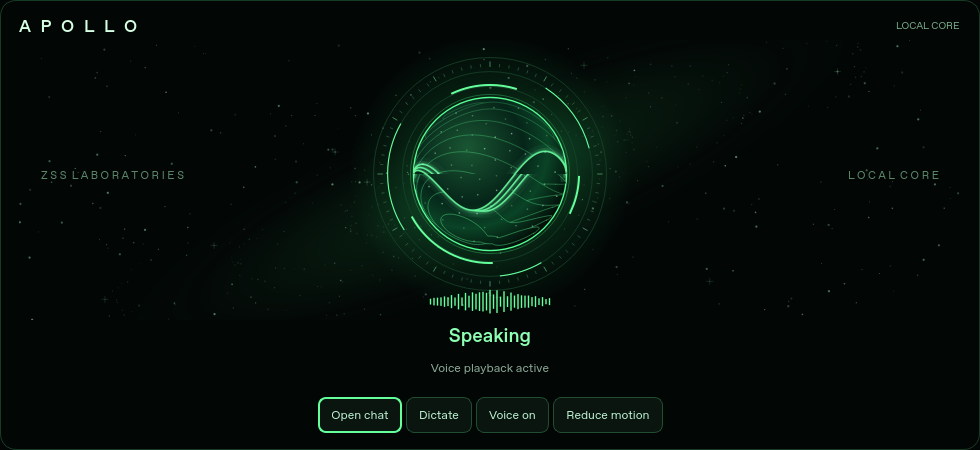
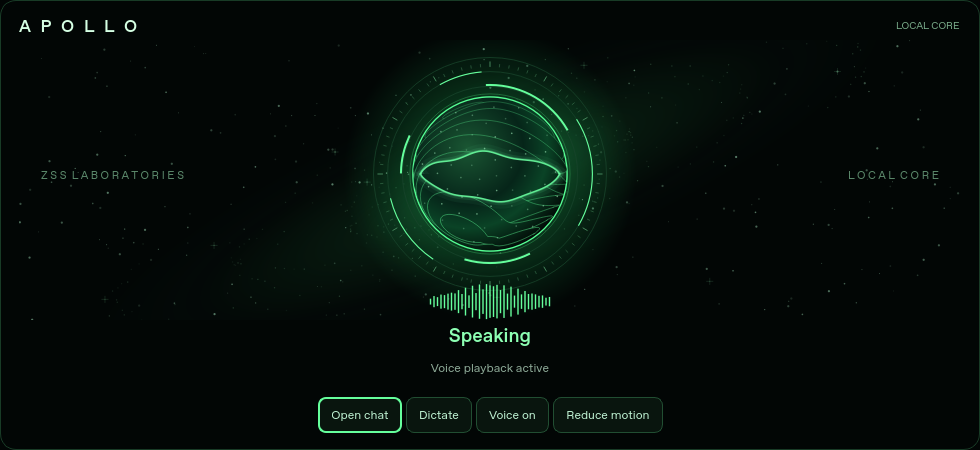
Add calm breathing, slower rings and speech-driven lip waves

diff --git a/apollo_ui/apollo_home_core.py b/apollo_ui/apollo_home_core.py
@@ -7,10 +7,12 @@ from PySide6.QtCore import QPointF, QRectF, QSize, Qt, QTimer, Signal
 from PySide6.QtGui import QColor, QFont, QPainter, QPainterPath, QPen, QPixmap, QRadialGradient
 from PySide6.QtWidgets import QFrame, QHBoxLayout, QLabel, QPushButton, QVBoxLayout, QWidget
 
-from apollo_core_activity import CoreActivity
+from apollo_core_activity import CoreActivity, speech_motion_level
 
 
 GREEN = "#65ff9c"
+RING_DEGREES_PER_SECOND = {"idle": 5, "listening": 7, "thinking": 12,
+                           "researching": 10, "working": 10, "voice": 8, "speaking": 6}
 
 
 class ApolloCoreCanvas(QWidget):
@@ -21,6 +23,8 @@ class ApolloCoreCanvas(QWidget):
         self.activity = CoreActivity()
         self.reduced_motion = False
         self._phase = 0.0
+        self._elapsed = 0.0
+        self._ring_angle = 0.0
         self._last_tick = time.monotonic()
         self._level = 0.0
         self._background = None
@@ -69,10 +73,14 @@ class ApolloCoreCanvas(QWidget):
         now = time.monotonic()
         speed = {"idle": .22, "thinking": 1.1, "voice": .7, "researching": .85,
                  "working": .9, "listening": .45, "speaking": .6}.get(self.activity.state, .25)
-        self._phase += min(.12, now - self._last_tick) * speed
+        dt = max(0.0, min(.12, now - self._last_tick))
+        self._phase += dt * speed
+        self._elapsed += dt
+        self._ring_angle = (self._ring_angle + dt * RING_DEGREES_PER_SECOND.get(self.activity.state, 5)) % 360
         self._last_tick = now
-        target = max(0.0, min(1.0, float(self.activity.level)))
-        self._level += (target - self._level) * .45
+        target = speech_motion_level(self.activity.level, self._elapsed, self.activity.level_available) if self.activity.state == "speaking" else 0.0
+        response = .055 if target > self._level else .09
+        self._level += (target - self._level) * (1 - math.exp(-dt / response))
         self.update()
 
     def _galaxy(self):
@@ -138,17 +146,20 @@ class ApolloCoreCanvas(QWidget):
         t = 0.0 if self.reduced_motion else self._phase
         state = self.activity.state
         speaking = state == "speaking"
-        pulse = .5 + .5 * math.sin(t * (12 if speaking else 3))
-        energy = max(self._level, .12 + .16 * pulse) if speaking else .12 * pulse
+        elapsed = 0.0 if self.reduced_motion else self._elapsed
+        breath = .5 + .5 * math.sin(elapsed * math.tau / 5.6)
+        voice_level = self._level if speaking else 0.0
+        energy = .06 + .10 * breath + .65 * voice_level
         r = min(h * .265, w * .19, 92)
         p.save(); p.translate(w / 2, h / 2 - 6)
 
-        halo = QRadialGradient(QPointF(0, 0), r * 1.9)
-        halo.setColorAt(0, QColor(39, 255, 120, 28))
-        halo.setColorAt(.5, QColor(37, 255, 123, 16 + int(energy * 35)))
+        halo_r = r * (1.82 + .18 * breath)
+        halo = QRadialGradient(QPointF(0, 0), halo_r)
+        halo.setColorAt(0, QColor(39, 255, 120, 22 + int(20 * breath)))
+        halo.setColorAt(.5, QColor(37, 255, 123, 12 + int(16 * breath + voice_level * 25)))
         halo.setColorAt(1, QColor(0, 0, 0, 0))
         p.setPen(Qt.NoPen); p.setBrush(halo)
-        p.drawEllipse(QPointF(0, 0), r * 1.9, r * 1.9)
+        p.drawEllipse(QPointF(0, 0), halo_r, halo_r)
 
         for radius in (1.18, 1.38, 1.57):
             self._circle(p, r * radius, "#17432a", .8)
@@ -161,7 +172,7 @@ class ApolloCoreCanvas(QWidget):
         for ring, direction in ((1.2, 1), (1.38, -1)):
             p.setPen(QPen(QColor(GREEN), 2 if ring == 1.2 else 1.1))
             for offset, length in ((0, 62), (125, 24), (224, 42)):
-                angle = (math.degrees(t) * direction * 25 + offset) % 360
+                angle = ((0.0 if self.reduced_motion else self._ring_angle) * direction + offset) % 360
                 p.drawArc(QRectF(-r * ring, -r * ring, r * ring * 2, r * ring * 2), int(angle * 16), length * 16)
 
         if state == "listening":
@@ -171,7 +182,7 @@ class ApolloCoreCanvas(QWidget):
                 radius = r * (1.05 + progress * .7)
                 p.drawEllipse(QPointF(0, 0), radius, radius)
 
-        sphere_r = r * (1 + energy * .07)
+        sphere_r = r * (.975 + .05 * breath + .025 * voice_level)
         sphere = QRadialGradient(QPointF(-r * .3, -r * .35), r * 1.5)
         sphere.setColorAt(0, QColor("#1a5633"))
         sphere.setColorAt(.5, QColor("#062519"))
@@ -198,13 +209,19 @@ class ApolloCoreCanvas(QWidget):
                 else: path.lineTo(x, y)
             p.setPen(QPen(QColor(95, 255, 151, 40 + band * 8 + int(energy * 45)), .8))
             p.drawPath(path)
-        # The bright plasma ribbon breathes with speech's PCM envelope.
-        for ribbon in range(3):
+        # Opposing energy waves open like abstract lips. Measured silence closes
+        # them; this is an amplitude response, not a phoneme/viseme prediction.
+        for side in (-1, 1):
             path = QPainterPath()
             for j in range(110):
-                x = (j / 109 * 2 - 1) * sphere_r
-                boundary = math.sqrt(max(0, sphere_r * sphere_r - x * x))
-                y = math.sin(x / sphere_r * 2.7 + t * 2 + ribbon * .23) * boundary * (.36 + energy * .28)
+                u = j / 109 * 2 - 1
+                x = u * sphere_r * .9
+                profile = max(0, 1 - u * u) ** .7
+                opening = sphere_r * (.014 + .34 * voice_level)
+                shape = .86 + .12 * math.cos(u * math.tau) if side < 0 else 1.1
+                ripple = math.sin(u * 8 + elapsed * 15) * sphere_r * .022 * voice_level * profile
+                resting_wave = math.sin(u * 3 + t * .5) * sphere_r * .018 * profile
+                y = side * opening * profile * shape + ripple + resting_wave
                 if j == 0: path.moveTo(x, y)
                 else: path.lineTo(x, y)
             for width, alpha in ((14, 12), (7, 25), (3, 65), (1.5, 225)):
@@ -223,7 +240,7 @@ class ApolloCoreCanvas(QWidget):
             x = (i - 17) * 3.5
             height = 1.2
             if speaking and not self.reduced_motion:
-                height += (3 + energy * 17) * (.3 + .7 * abs(math.sin(i * 1.7 + t * 18))) * (1 - abs(i - 17) / 20)
+                height += voice_level * 22 * (.3 + .7 * abs(math.sin(i * 1.7 + elapsed * 18))) * (1 - abs(i - 17) / 20)
             p.drawLine(QPointF(x, r * 1.72 - height), QPointF(x, r * 1.72 + height))
         p.restore()
 

diff --git a/apollo_ui/tests/test_home_core.py b/apollo_ui/tests/test_home_core.py
@@ -12,7 +12,7 @@ import unittest
 from unittest.mock import Mock, patch
 import wave
 
-from apollo_core_activity import CoreActivity, PlaybackEnvelope, resolve_activity
+from apollo_core_activity import CoreActivity, PlaybackEnvelope, resolve_activity, speech_motion_level
 from apollo_runtime import ApolloRuntime
 
 ROOT = Path(__file__).resolve().parents[1]
@@ -45,13 +45,26 @@ class ActivityTests(unittest.TestCase):
             self.assertGreater(levels[2], .5)
             proc = Mock(); proc.poll.return_value = None
             with patch("apollo_core_activity.time.monotonic", return_value=10): meter.start(proc, levels)
+            with patch("apollo_core_activity.time.monotonic", return_value=10.01):
+                silent = meter.snapshot()
+                self.assertTrue(silent["level_available"])
+                self.assertEqual(silent["level"], 0)
             with patch("apollo_core_activity.time.monotonic", return_value=10.12):
                 self.assertGreater(meter.snapshot()["level"], .5)
             proc.poll.return_value = 0
-            self.assertEqual(meter.snapshot(), {"playing": False, "level": 0.0})
+            self.assertEqual(meter.snapshot(), {"playing": False, "level": 0.0, "level_available": False})
             meter.stop()
             self.assertFalse(meter.snapshot()["playing"])
             self.assertEqual(meter.read(Path(folder) / "missing.wav"), ())
+
+    def test_measured_silence_never_becomes_an_invented_syllable(self):
+        for elapsed in (.1, .4, 1.5, 5.6):
+            self.assertEqual(speech_motion_level(0, elapsed, available=True), 0)
+            self.assertEqual(speech_motion_level(.7, elapsed, available=True), .7)
+        self.assertEqual(speech_motion_level(2, .2, available=True), 1)
+        self.assertGreater(speech_motion_level(0, .2, available=False), .5)
+        activity = resolve_activity(speech={"playing": True, "level": 0, "level_available": True})
+        self.assertTrue(activity.level_available)
 
     def test_only_in_flight_current_process_actions_animate_background_work(self):
         with tempfile.TemporaryDirectory() as folder:
@@ -149,8 +162,9 @@ class HomeCoreWidgetTests(unittest.TestCase):
         speech._speech_status.return_value = {"worker_alive": True, "state": "generating"}
         refresh(); self.assertEqual(self.panel.canvas.activity.state, "voice")
         speech._speech_status.return_value = {"worker_alive": False, "state": "completed"}
-        trainer.playback_activity.return_value = {"playing": True, "level": .8}
+        trainer.playback_activity.return_value = {"playing": True, "level": .8, "level_available": True}
         refresh(); self.assertEqual(self.panel.canvas.activity.state, "speaking")
+        self.assertTrue(self.panel.canvas.activity.level_available)
         trainer.playback_activity.return_value = {"playing": False, "level": 0}
         refresh(); self.assertEqual(self.panel.canvas.activity.state, "idle")
         host._core_error = ("Voice failed", time.monotonic() + 10)
@@ -158,6 +172,25 @@ class HomeCoreWidgetTests(unittest.TestCase):
         host._core_error = ("Voice failed", 0)
         refresh(); self.assertEqual(self.panel.canvas.activity.state, "idle")
         host.module_manager.execute.assert_not_called()
+
+    def test_slow_rings_and_speech_waves_close_in_silence(self):
+        canvas = self.panel.canvas
+        canvas.timer.stop()
+        canvas.set_activity(CoreActivity("speaking", "Speaking", "", .9, True))
+        canvas._last_tick = 100
+        angle = canvas._ring_angle
+        with patch("apollo_home_core.time.monotonic", return_value=100.04): canvas._tick()
+        self.assertAlmostEqual(canvas._ring_angle - angle, .24, places=5)  # 6 degrees/second
+        for i in range(2, 12):
+            with patch("apollo_home_core.time.monotonic", return_value=100 + i * .04): canvas._tick()
+        self.assertGreater(canvas._level, .89)
+        elapsed = canvas._elapsed
+        canvas.set_activity(CoreActivity("speaking", "Speaking", "", 0, True))
+        for i in range(12, 30):
+            with patch("apollo_home_core.time.monotonic", return_value=100 + i * .04): canvas._tick()
+        self.assertLess(canvas._level, .001)
+        self.assertGreater(canvas._elapsed, elapsed)
+        self.assertFalse(canvas.grab().isNull())
 
 
 if __name__ == "__main__": unittest.main()

diff --git a/apollo_ui/apollo_core_activity.py b/apollo_ui/apollo_core_activity.py
@@ -14,6 +14,15 @@ class CoreActivity:
     title: str = "Ready when you are"
     detail: str = "Ask a question. Start an experiment. Build something."
     level: float = 0.0
+    level_available: bool = False
+
+
+def speech_motion_level(level, elapsed, available=False):
+    """Preserve measured silence; use a syllabic pulse only without audio data."""
+    if available:
+        return max(0.0, min(1.0, float(level)))
+    syllable = max(0.0, math.sin(elapsed * 4.8))
+    return (syllable * (.55 + .45 * math.sin(elapsed * 13.7) ** 2)) ** .6
 
 
 def resolve_activity(*, listening=False, speech=None, thinking=False,
@@ -23,7 +32,8 @@ def resolve_activity(*, listening=False, speech=None, thinking=False,
     if listening:
         return CoreActivity("listening", "Listening", "Microphone active · dictating your message")
     if speech.get("playing"):
-        return CoreActivity("speaking", "Speaking", "Voice playback active", speech.get("level", 0.0))
+        return CoreActivity("speaking", "Speaking", "Voice playback active",
+                            speech.get("level", 0.0), bool(speech.get("level_available", False)))
     if speech.get("generating"):
         return CoreActivity("voice", "Preparing voice", "Generating speech locally")
     if tool:
@@ -91,4 +101,7 @@ class PlaybackEnvelope:
             process, levels, started = self._process, self._levels, self._started
         playing = process is not None and process.poll() is None
         index = int(max(0.0, time.monotonic() - started) / self.STEP)
-        return {"playing": playing, "level": levels[index] if playing and index < len(levels) else 0.0}
+        available = bool(playing and levels)
+        # After the bounded envelope ends, hold closed rather than invent speech.
+        return {"playing": playing, "level": levels[index] if available and index < len(levels) else 0.0,
+                "level_available": available}

diff --git a/apollo_ui/main.py b/apollo_ui/main.py
@@ -1700,6 +1700,7 @@ class ApolloWindow(QMainWindow):
                 playback = instance.playback_activity()
                 speech["playing"] = speech.get("playing", False) or playback.get("playing", False)
                 speech["level"] = playback.get("level", 0.0)
+                speech["level_available"] = playback.get("level_available", False)
         if self.speech_task is not None and not speech.get("playing"):
             speech["generating"] = True
         workspace = getattr(self, "chat_workspace", None)

diff --git a/apollo_ui/docs/features/HOME_ACTIVITY_CORE.md b/apollo_ui/docs/features/HOME_ACTIVITY_CORE.md
@@ -4,19 +4,26 @@ Home now includes a luminous green energy sphere, rotating instrument rings and
 a cached starfield/galaxy on an almost-black background. Existing pinned apps,
 layout editing and shortcuts remain below it.
 
+The sphere and glow breathe on a steady 5.6-second cycle. Instrument rings turn
+at 5–12 degrees per second depending on activity, independently of the plasma.
+Two opposing energy waves open and close like abstract lips during speech;
+measured silent audio closes them instead of inventing syllables. A short
+attack/release smooths volume changes. This is amplitude-driven motion, not
+phoneme-accurate lip synchronization.
+
 ![Home core in an illustrative speaking state](../images/home_activity_core.png)
 
 The display observes real application state:
 
 | State | Trigger | Visual response |
 | --- | --- | --- |
-| Ready | No observed foreground or runtime action | Slow green breathing and orbit |
+| Ready | No observed foreground or runtime action | 5.6-second green breathing and slow orbit |
 | Listening | Existing dictation task active | Expanding concentric rings |
 | Thinking | Chat generating a response | Faster counter-rotating rings and plasma |
 | Researching | Active search/fetch/research tool | Research label, tool name and active orbit |
 | Working | Other active tool or current-process runtime action | Working label and capability name |
 | Preparing voice | Speech request queued or local generation active | Moving core while audio is prepared |
-| Speaking | Windows speech or Voice Imprint playback process active | Pulsing plasma and signal bars |
+| Speaking | Windows speech or Voice Imprint playback process active | Opposing speech waves open/close; signal bars follow volume |
 | Needs attention | Recent chat/dictation/voice failure, when no work is active | Plain-language failure for 12 seconds |
 
 Voice Imprint PCM16 WAV playback supplies a bounded amplitude envelope computed

diff --git a/apollo_ui/docs/patch_notes/PATCH_NOTES.md b/apollo_ui/docs/patch_notes/PATCH_NOTES.md
@@ -3,6 +3,7 @@
 - Added a green animated sphere and instrument rings over an almost-black galaxy/starfield.
 - Home reflects actual chat, dictation, tool, voice generation and playback state.
 - Voice Imprint playback uses a local WAV amplitude envelope; Windows speech uses a playback pulse.
+- Added a steady breathing rhythm, slower independent ring rotation and opposing speech waves that close during measured silence.
 - Added Chat/dictation/mute controls and a saved Reduce motion option; hidden Home stops animation.
 - See `docs/features/HOME_ACTIVITY_CORE.md` for states, performance limits and validation.
 
